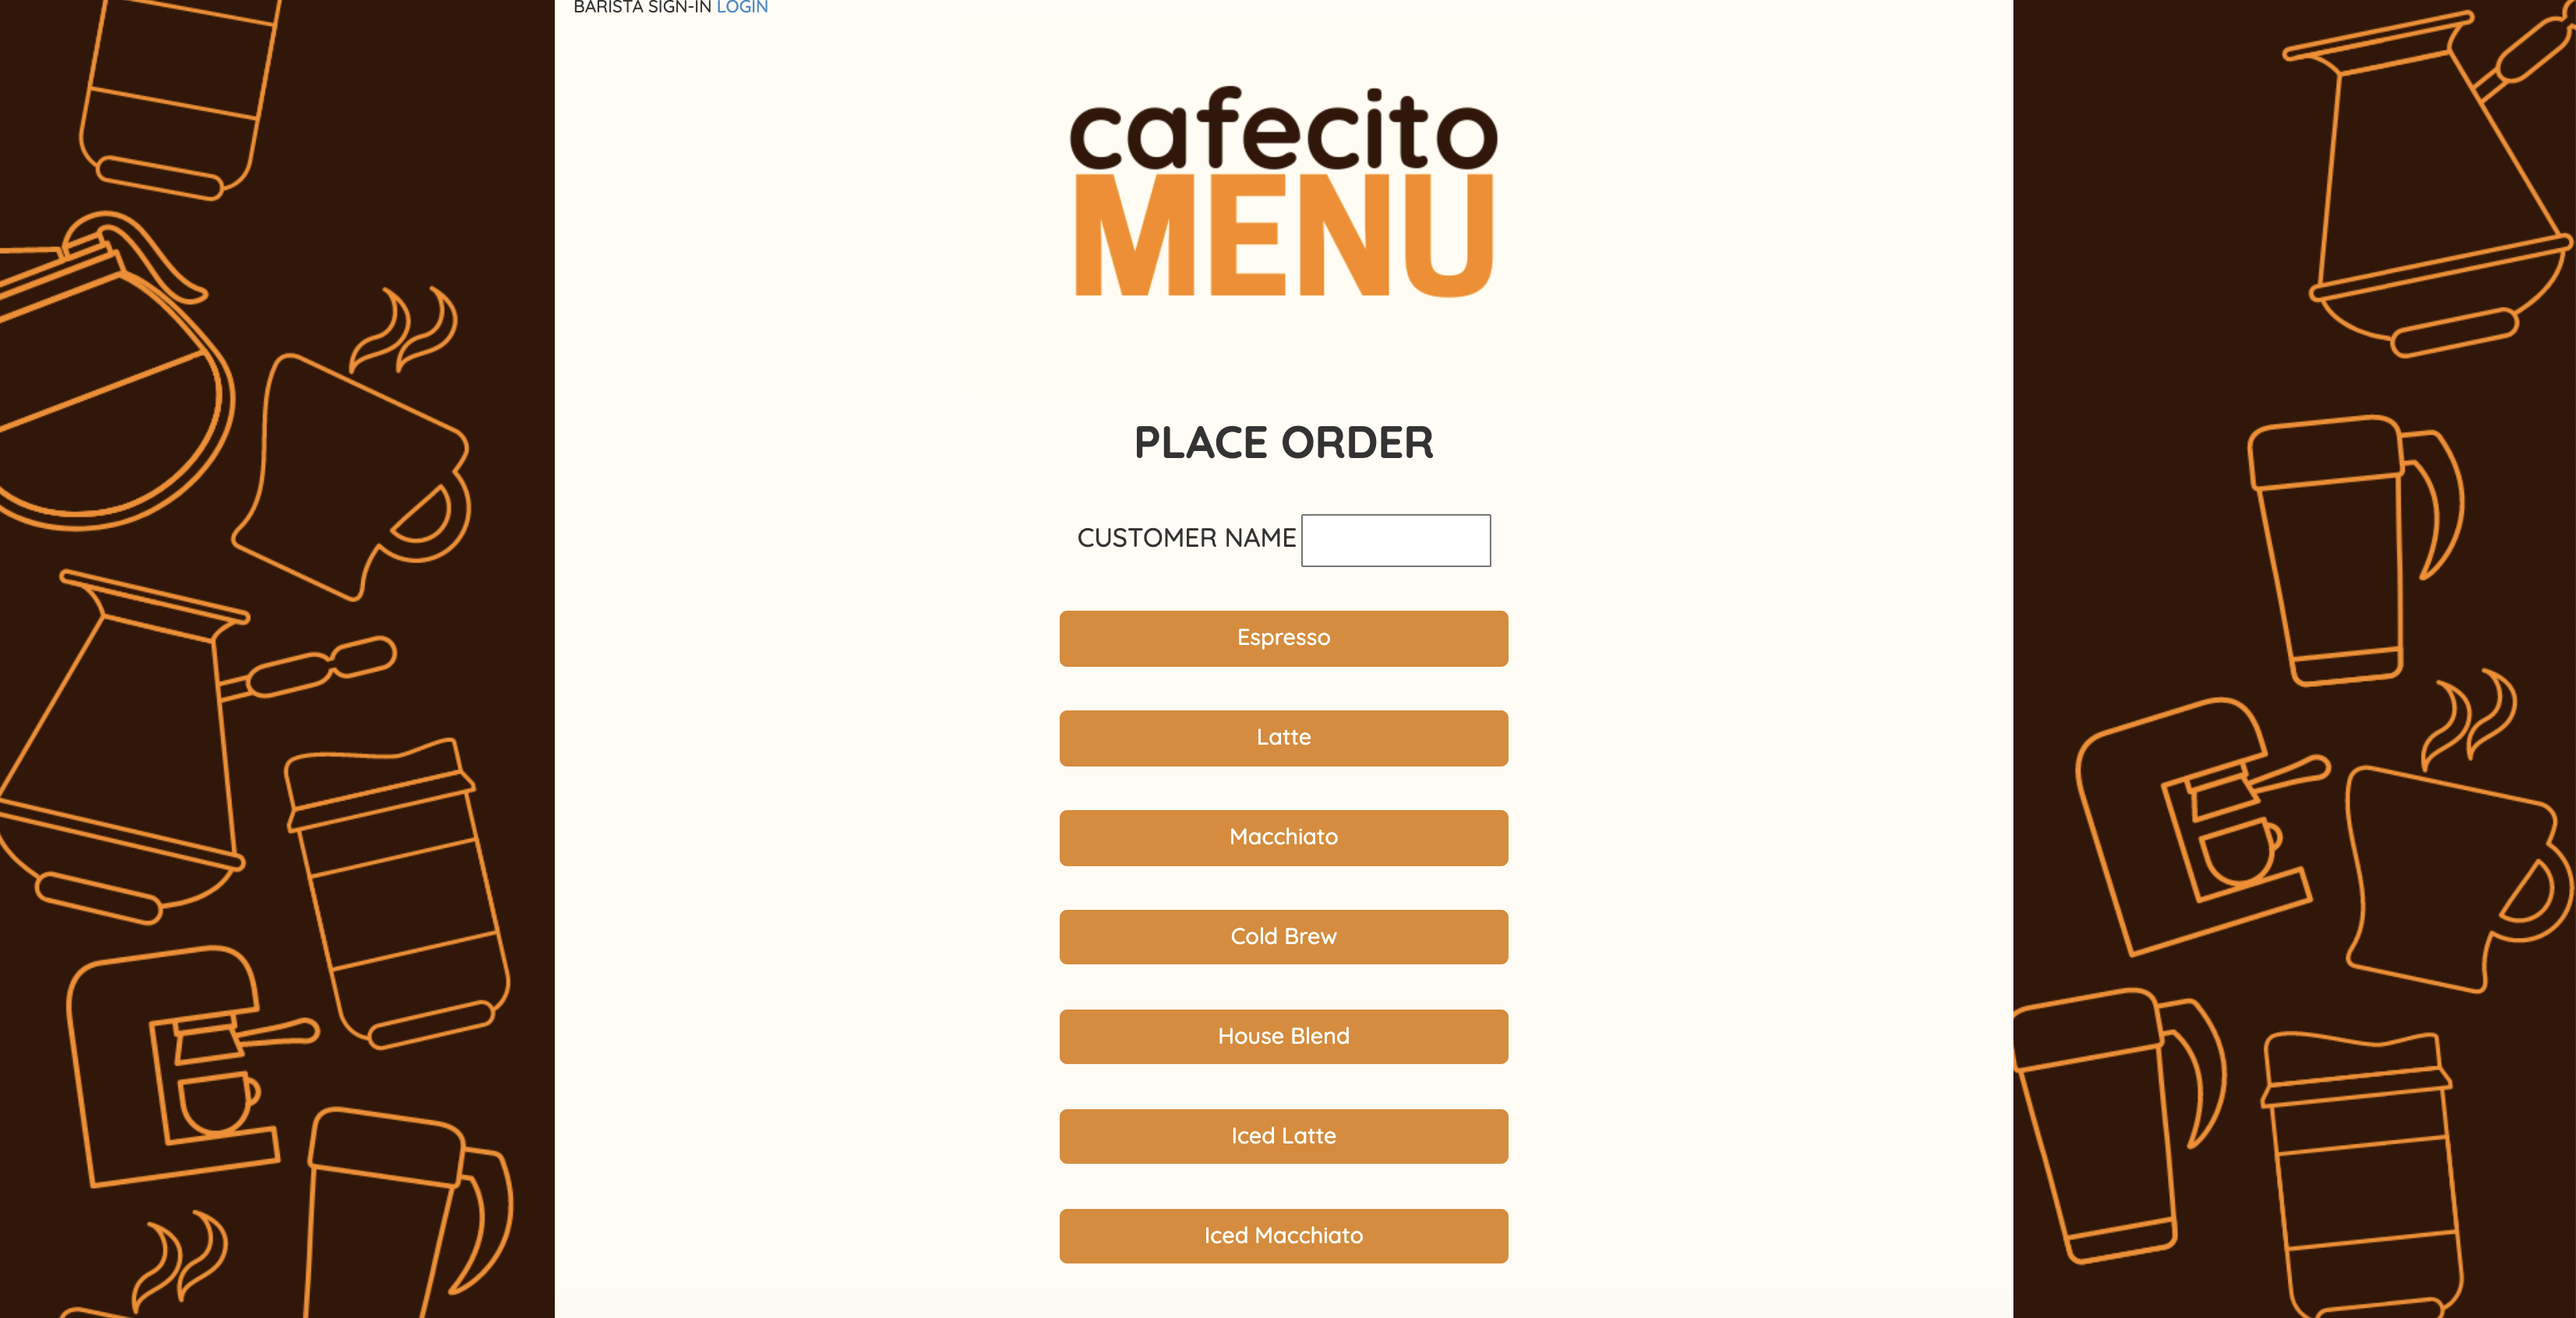
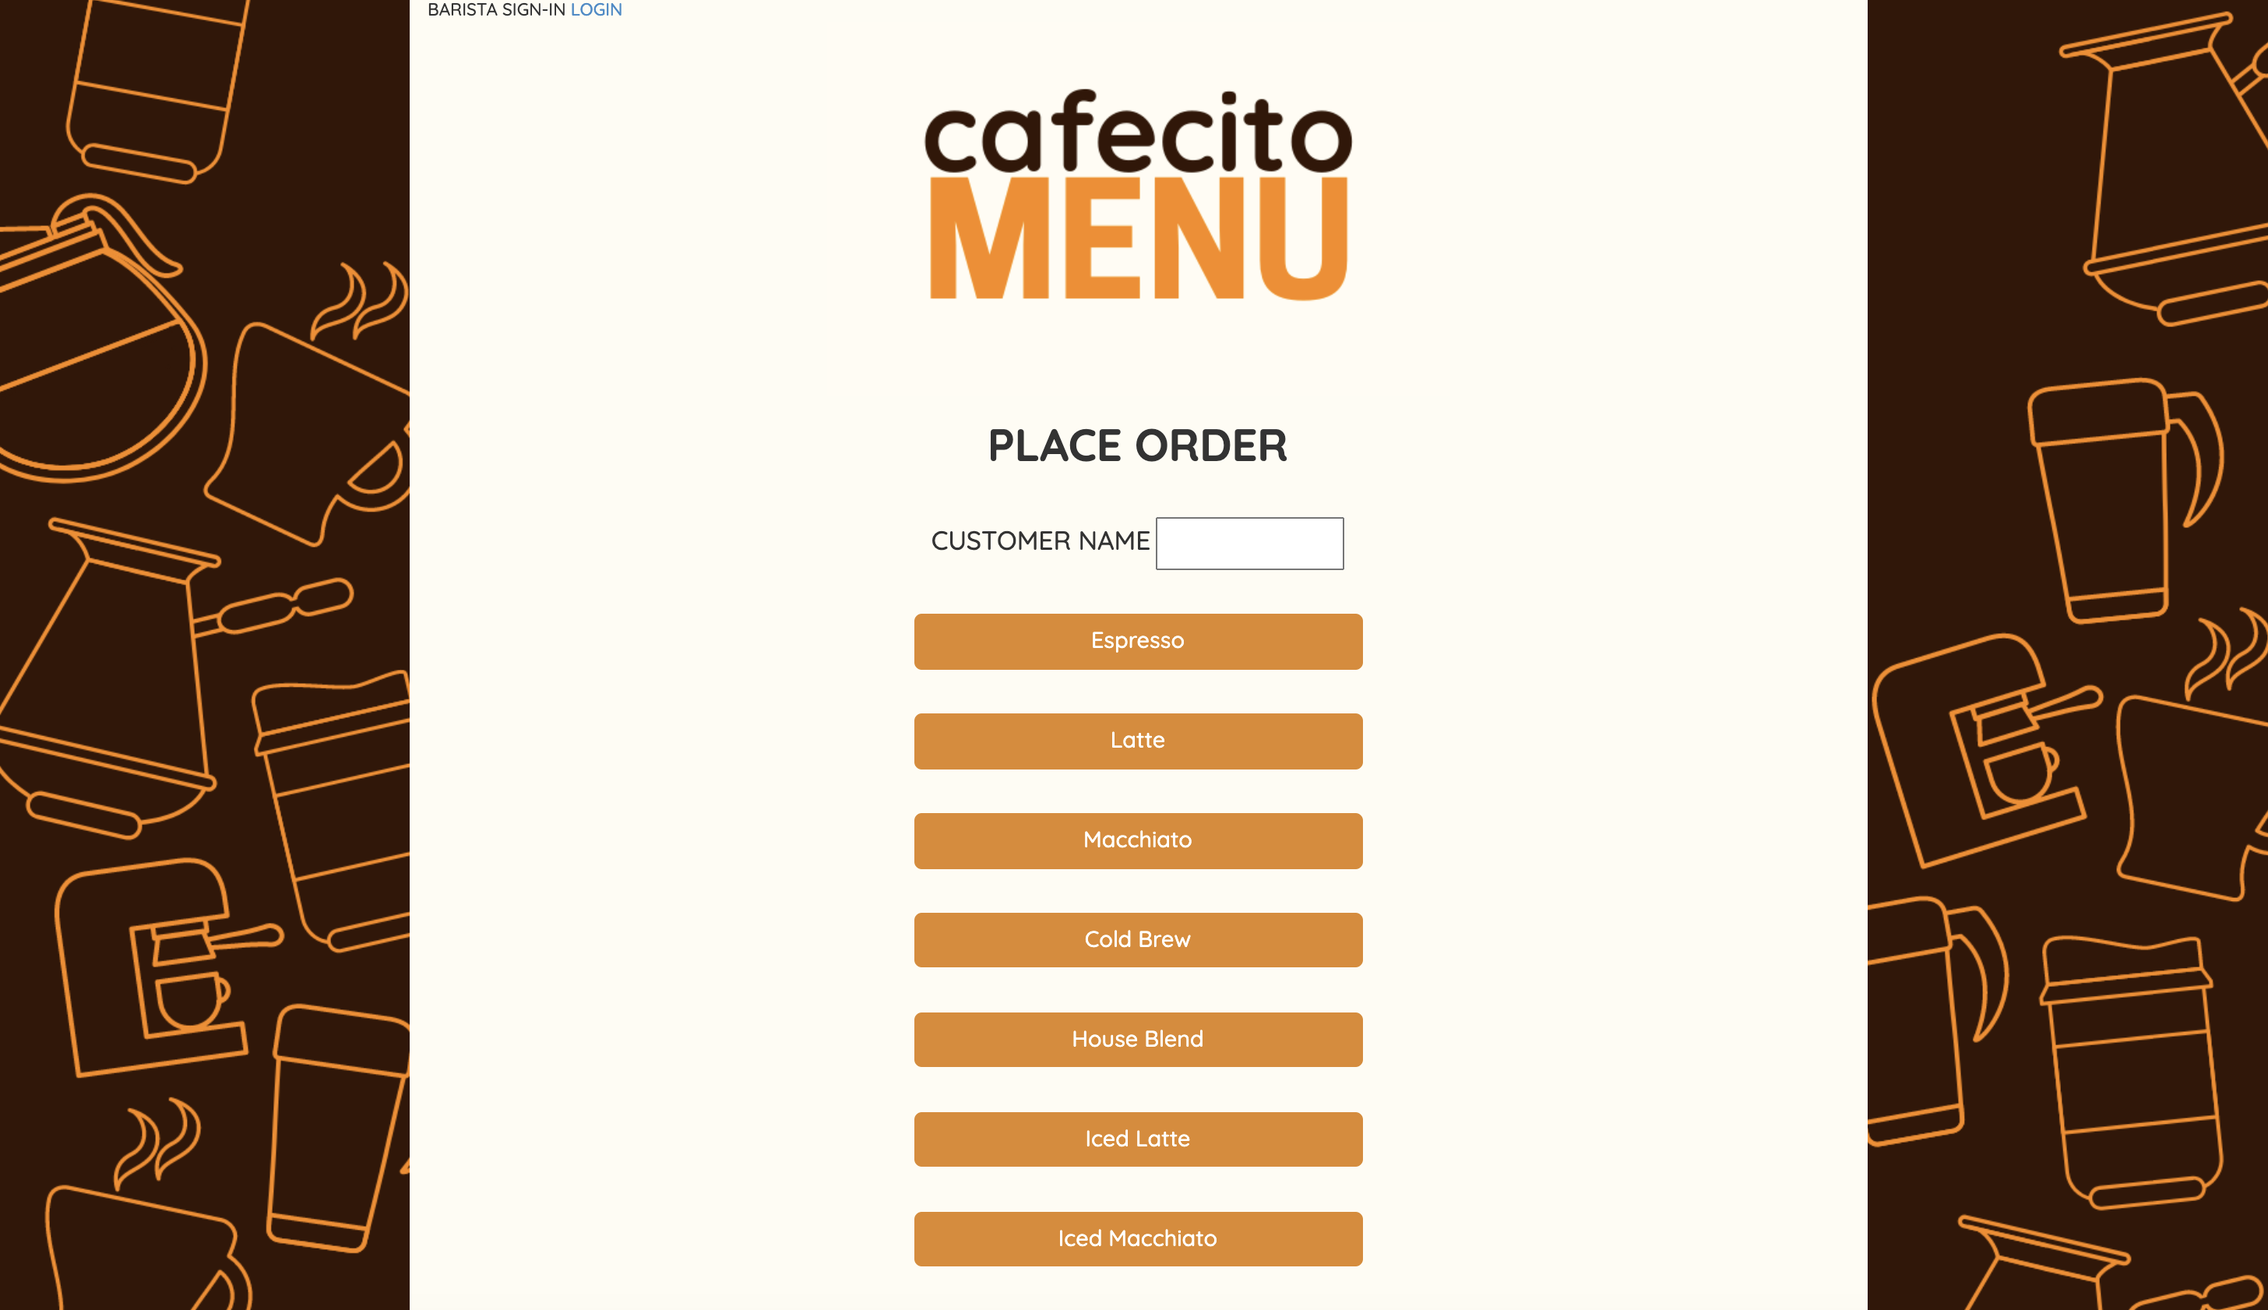
updated css, readme, and api with app.delete

diff --git a/public/main.js b/public/main.js
@@ -1,4 +1,5 @@
 var complete = document.getElementsByClassName("completed");
+var trash = document.getElementsByClassName("clear");
 
 
 Array.from(complete).forEach(function(element) {
@@ -28,6 +29,26 @@ Array.from(complete).forEach(function(element) {
           window.location.reload(true)
         })
       });
+});
+
+
+Array.from(trash).forEach(function(element) {
+  element.addEventListener('click', function(){
+    const id = this.parentNode.parentNode.childNodes[7].innerText
+
+
+    fetch('messages', {
+      method: 'delete',
+      headers: {
+        'Content-Type': 'application/json'
+      },
+      body: JSON.stringify({
+       "id": id,
+      })
+    }).then(function (response) {
+      window.location.reload()
+    })
+  });
 });
 
 //https://usefulangle.com/post/98/javascript-text-to-speech how to add text to speech in your app

diff --git a/app/routes.js b/app/routes.js
@@ -58,7 +58,15 @@ module.exports = function(app, passport, db, ObjectId) {
           })
       })
 
-
+      app.delete('/messages', (req, res) => {
+        db.collection('order').findOneAndDelete({
+          _id: ObjectId(req.body.id)
+        }, (err, result) => {
+          if (err) return res.send(500, err)
+          res.send('Message deleted!')
+        })
+      })
+    
 // =============================================================================
 // AUTHENTICATE (FIRST LOGIN) ==================================================
 // =============================================================================

diff --git a/public/style.css b/public/style.css
@@ -14,7 +14,7 @@ img{
 
 .container{
 background-color: rgb(254 252 243);
-height: 100vh !important;
+height: 100% !important;
 }
 
 h1{
@@ -70,6 +70,7 @@ label{
   width: 20em !important;
   margin: auto;
   margin-top: 2em;
+  margin-bottom: 2em;
 }
 
 .completed{
@@ -81,9 +82,10 @@ label{
 
 ul{
   align-items: center;
+  padding-bottom: 2em;
 }
 li{
-  height: 10em;
+  height: 12.5em;
   width: 20em;
   border:3px solid rgb(49 28 15);;
   display: inline-block;
@@ -91,4 +93,9 @@ li{
   padding-top: 1.5em;
   margin-top: 2em;
 
+}
+
+.clear{
+  margin-bottom: 2em;
+  text-transform: uppercase;
 }
